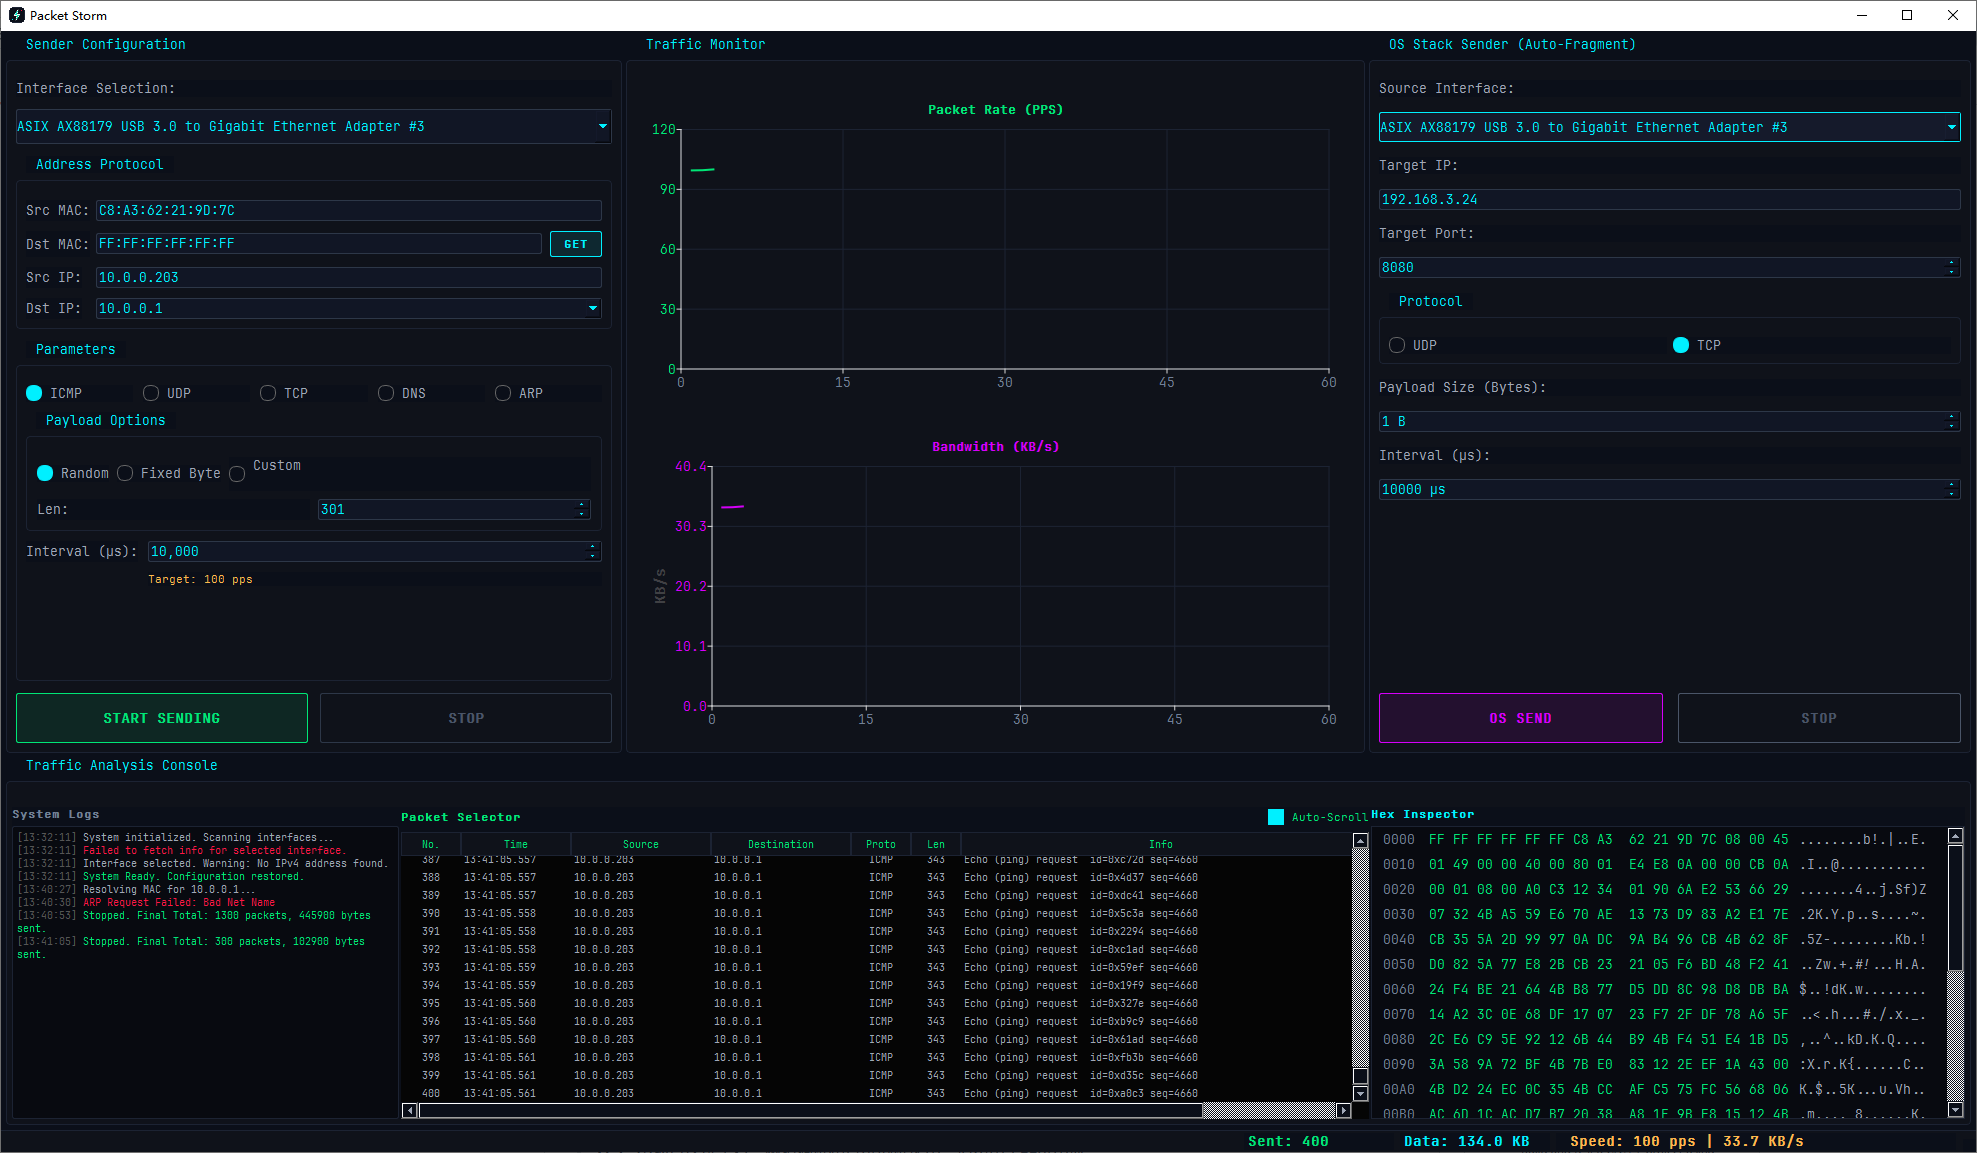
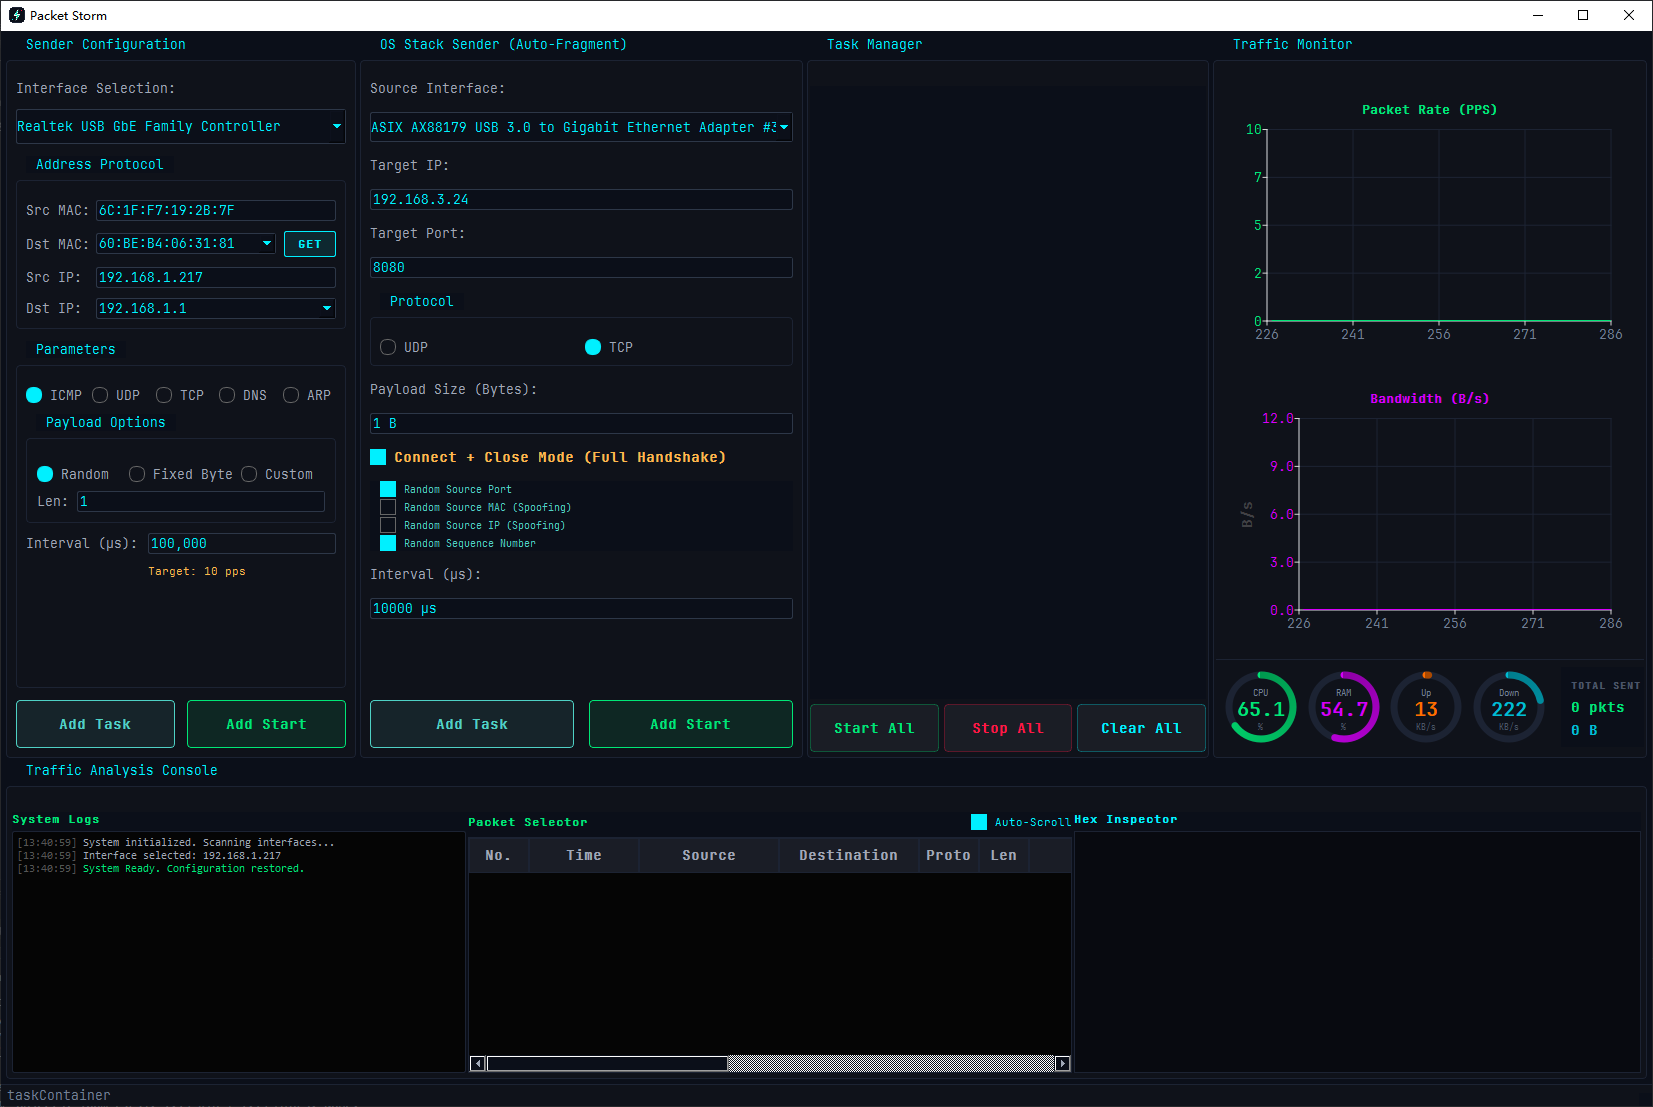
Enhance README.md with detailed descriptions of new Task Manager features and SYN Flood mode enhancements. Update performance section to include advanced randomization options and task management capabilities. Modify UI documentation to reflect recent changes in functionality.

diff --git a/README.md b/README.md
@@ -22,7 +22,7 @@
 
 ### 📦 多协议支持
 - **UDP**: 自定义源/目的端口、载荷长度和内容
-- **TCP**: 支持自定义 Flags (SYN, ACK, PSH, FIN, RST)，可模拟完整的三次握手或各种攻击流量
+- **TCP**: 支持自定义 Flags (SYN, ACK, PSH, FIN, RST)，支持 **SYN Flood** 增强模式
 - **ICMP**: 发送 Echo Request (Ping) 数据包，支持自定义载荷
 - **DNS**: 支持自定义查询域名，可进行 DNS 查询测试
 - **ARP**: 支持 ARP 请求/应答包的构造和发送
@@ -31,8 +31,18 @@
 - **原始包模式 (Raw Packet Mode)**: 基于 WinPcap/Npcap，可完全自定义数据包结构，包括 MAC 地址、IP 地址等所有字段
 - **Socket 模式 (Socket Mode)**: 基于系统 Socket API，支持 TCP/UDP 连接，适用于应用层测试
 
-### ⚡ 高性能特性
+### ⚡ 高性能与随机化
 - **微秒级精度**: 支持微秒 (µs) 级发送间隔设置，可实现精确的流量控制
+- **任务管理器 (Task Manager)**: 
+  - **多任务并发**: 支持同时运行多个不同的发包任务
+  - **独立控制**: 每个任务可独立启动、停止和移除
+  - **实时监控**: 任务卡片实时显示单个任务的发送速率 (PPS)
+  - **全局控制**: 支持“全部开始”、“全部停止”和“一键清空”
+- **高级随机化 (SYN Flood)**: 
+  - **随机源端口**: 1024-65535 随机切换
+  - **随机源 IP**: 基于子网掩码 (/24) 自动生成合法随机 IP
+  - **随机源 MAC**: 符合 IEEE 802 标准的随机 MAC 地址生成
+  - **随机序列号**: 每个数据包使用独立的 32 位随机序列号
 - **批量发送优化**: 采用批量发送队列策略，在高吞吐量下保持 UI 流畅响应
 - **实时统计**: 实时显示发送包数、总字节数、发送速率 (pps) 和带宽 (B/s)
 - **性能图表**: 实时绘制 PPS (Packets Per Second) 和带宽 (Mbps) 趋势图
@@ -124,6 +134,12 @@ nmake release
 
 ## 📖 使用说明
 
+详细功能说明文档：
+- [任务管理器 (Task Manager) 说明](TASK_MANAGER_功能说明.md)
+- [SYN Flood 增强功能说明](SYN_FLOOD_增强功能说明.md)
+- [SYN Flood 选项详细说明](SYN_FLOOD_选项说明.md)
+- [编译指南](编译说明_SYN_FLOOD.md)
+
 ### 原始包模式 (Raw Packet Mode)
 
 1. **选择网卡**: 在 "Interface Selection" 下拉框中选择用于发包的网络适配器
@@ -158,6 +174,21 @@ nmake release
    - 图表窗口显示 PPS 和带宽趋势
    - 数据包表格显示发送的数据包详情和十六进制内容
 
+### 🔥 SYN Flood 模式 (高级)
+
+1. **选择 TCP 协议**: 在协议选择区域点击 **TCP**。
+
+2. **启用 SYN Flood**: 勾选 **"SYN Flood"** 复选框。
+
+3. **配置随机化选项**:
+   - **随机端口**: 勾选后每个包使用不同源端口。
+   - **随机 MAC**: 勾选后每个包使用符合规范的随机源 MAC。
+   - **随机 IP**: 勾选后在源 IP 所在的 /24 子网内随机生成源 IP。
+
+4. **注意事项**:
+   - 随机 IP 和 MAC 会显著增加网络设备负担，请在授权环境中使用。
+   - 启用随机 IP 前请确保已在 "Source IP" 框中输入正确的参考 IP。
+
 ### Socket 模式 (Socket Mode)
 
 1. **配置目标信息**:
@@ -175,6 +206,19 @@ nmake release
 4. **开始发送**: 点击 **"START SOCKET SEND"** 按钮
 
 5. **查看日志**: Socket 模式会在日志窗口显示连接状态和错误信息
+
+### 🛠 任务管理器 (Task Manager)
+
+1. **添加任务**: 无论是原始包模式还是 Socket 模式，点击开始发送按钮后，任务都会被添加到右侧的任务列表中。
+
+2. **多任务并行**: 您可以重复配置参数并点击开始，创建多个并行的发包任务。
+
+3. **单个控制**: 使用任务卡片上的 **Start/Stop** 切换状态，点击 **🗑** 删除任务。
+
+4. **全局控制**: 
+   - **Start All**: 启动列表中所有任务。
+   - **Stop All**: 停止所有正在运行的任务。
+   - **Clear All**: 停止并清空所有任务。
 
 ---
 
@@ -246,6 +290,7 @@ PacketStorm_Sender/
 - **完整协议栈**: 从以太网帧到应用层协议的完整实现
 - **校验和计算**: 自动计算 IP、TCP、UDP、ICMP 校验和
 - **字节序处理**: 正确处理网络字节序和主机字节序转换
+- **字段随机化**: 实现基于子网的 IP 随机算法和符合 IEEE 标准的 MAC 随机算法
 
 ### 用户体验
 - **实时反馈**: 毫秒级统计更新，实时图表绘制
@@ -297,15 +342,7 @@ PacketStorm_Sender/
 
 ---
 
-## 📄 许可证
-
-本项目采用 MIT 许可证。详见 LICENSE 文件。
-
----
-
 ## 👤 作者
-
-**PacketStorm Sender** © 2025
 
 GitHub: [jintianwenwenzaoshuilema/PacketStorm-Sender](https://github.com/jintianwenwenzaoshuilema/PacketStorm-Sender)
 
